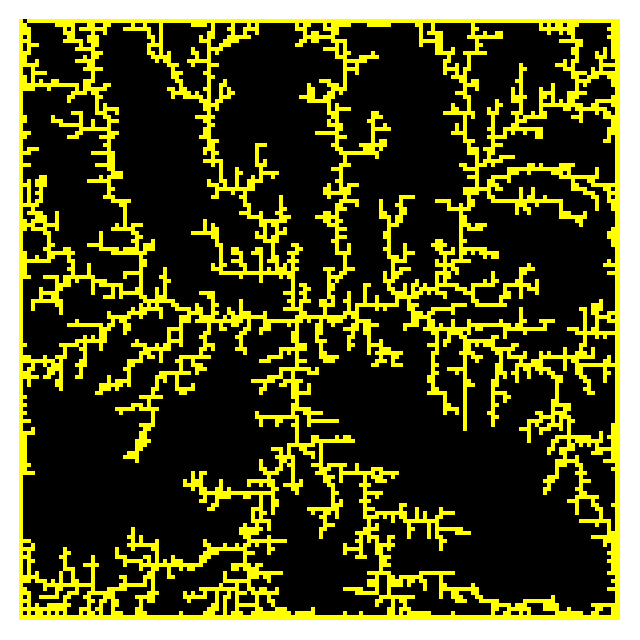
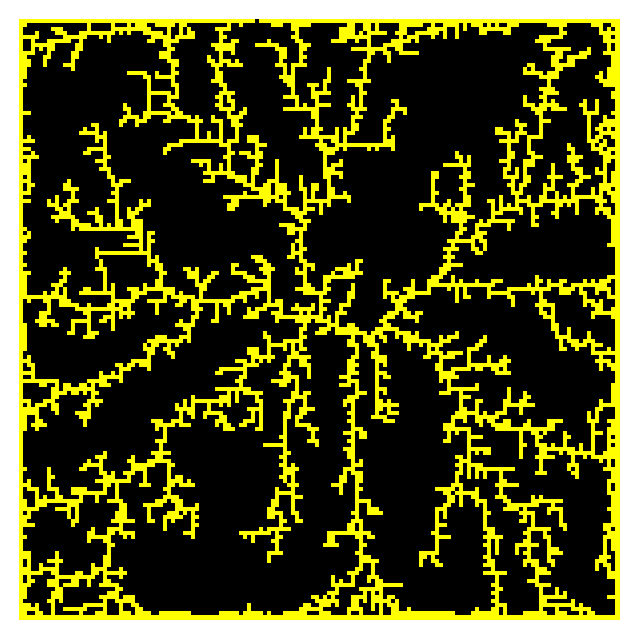
問題1.2(b)

Changed region(s): [[0.0312, 0.0312, 0.9688, 0.9688]]

diff --git a/chap1/q1_2/b.c b/chap1/q1_2/b.c
@@ -1,0 +1,76 @@
+#include <stdio.h>
+#include <stdbool.h>
+#include <time.h>
+#include <math.h>
+#include "../../headers/mt19937ar.h"
+
+#define L 500
+#define N 10000
+
+int main(){
+    init_genrand(time(NULL));
+
+    bool site[L][L];
+    for(int i=0;i<L;i++){
+        for(int j=0;j<L;j++){
+            site[i][j] = false;
+        }
+    }
+    site[L/2][L/2] = true;
+
+    int dx[4] = {1, -1, 0, 0}, dy[4] = {0, 0, 1, -1};
+    double xsum = 0.0, ysum = 0.0, rsum = 0.0;
+
+    for(int n=1;n<=N;n++){
+        int x = 0, y = 0;
+
+        // 境界上の初期位置の決定
+        int r = genrand_int31() % ((L-1)*4);
+        switch(r/(L-1)){
+            case 0:
+                x = r % (L-1);
+                y = 0;
+                break;
+            case 1:
+                x = (L-1);
+                y = r % (L-1);
+                break;
+            case 2:
+                x = (L-1) - r % (L-1);
+                y = (L-1);
+                break;
+            case 3:
+                x = 0;
+                y = (L-1) - r % (L-1);
+                break;
+        }
+
+        // ランダムウォーク
+        while(true){
+            for(int i=0;i<4;i++){
+                if(x+dx[i] < 0 || x+dx[i] >= L || y+dy[i] < 0 || y+dy[i] >= L) continue;
+                if(site[x+dx[i]][y+dy[i]]){
+                    site[x][y] = true;
+                    xsum += x;
+                    ysum += y;
+                    rsum += x*x + y*y;
+                    goto next_particle;
+                }
+            }
+
+            // 進む方向
+            int d;
+            for(d=genrand_int31()%4; x+dx[d]<0 || x+dx[d]>=L || y+dy[d]<0 || y+dy[d]>=L; d=genrand_int31()%4) ;
+            x += dx[d];
+            y += dy[d];
+        }
+        next_particle:
+        if(n%200 == 0){
+            double x0 = xsum/n, y0 = ysum/n;
+            double rg = sqrt(rsum/n - (x0*x0 + y0*y0));
+            printf("%f\t%d\n", rg, n);
+        }
+    }
+
+    return 0;
+}
